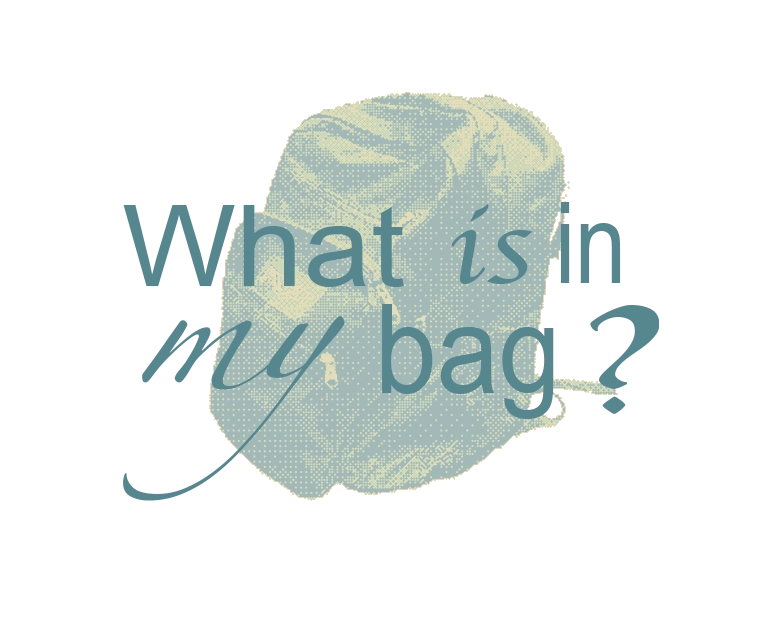
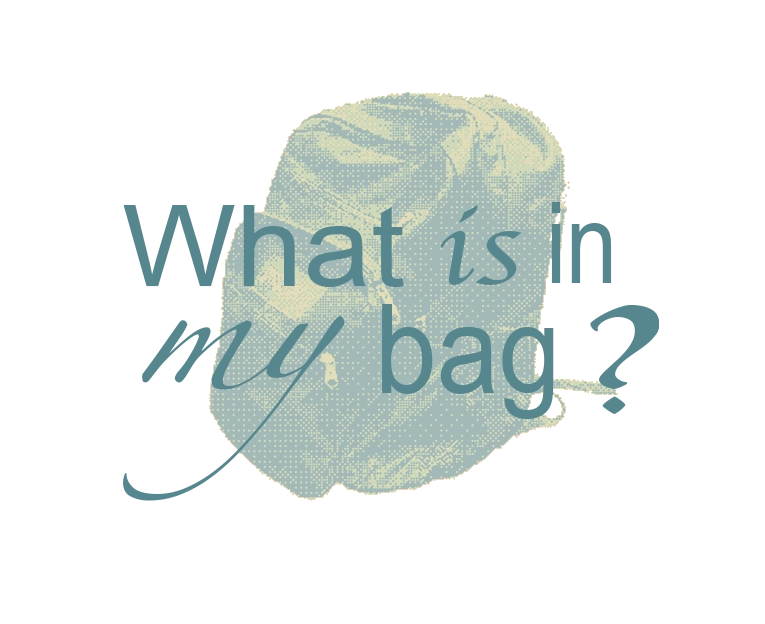
change shadow, fix cover img

Changed region(s): [[0.7216, 0.3045, 0.8118, 0.4567], [0.5712, 0.3349, 0.6915, 0.4567]]

diff --git a/index copy.html b/index copy.html
@@ -120,7 +120,7 @@
             left: 50%;
             transform: translate(-50%, -50%);
             border-radius: 10px;
-            box-shadow: 0 0 50px #56878F;
+            box-shadow: 0px 20px 20px rgba(0,0,0,.4);
 
             z-index: 100;
         }
